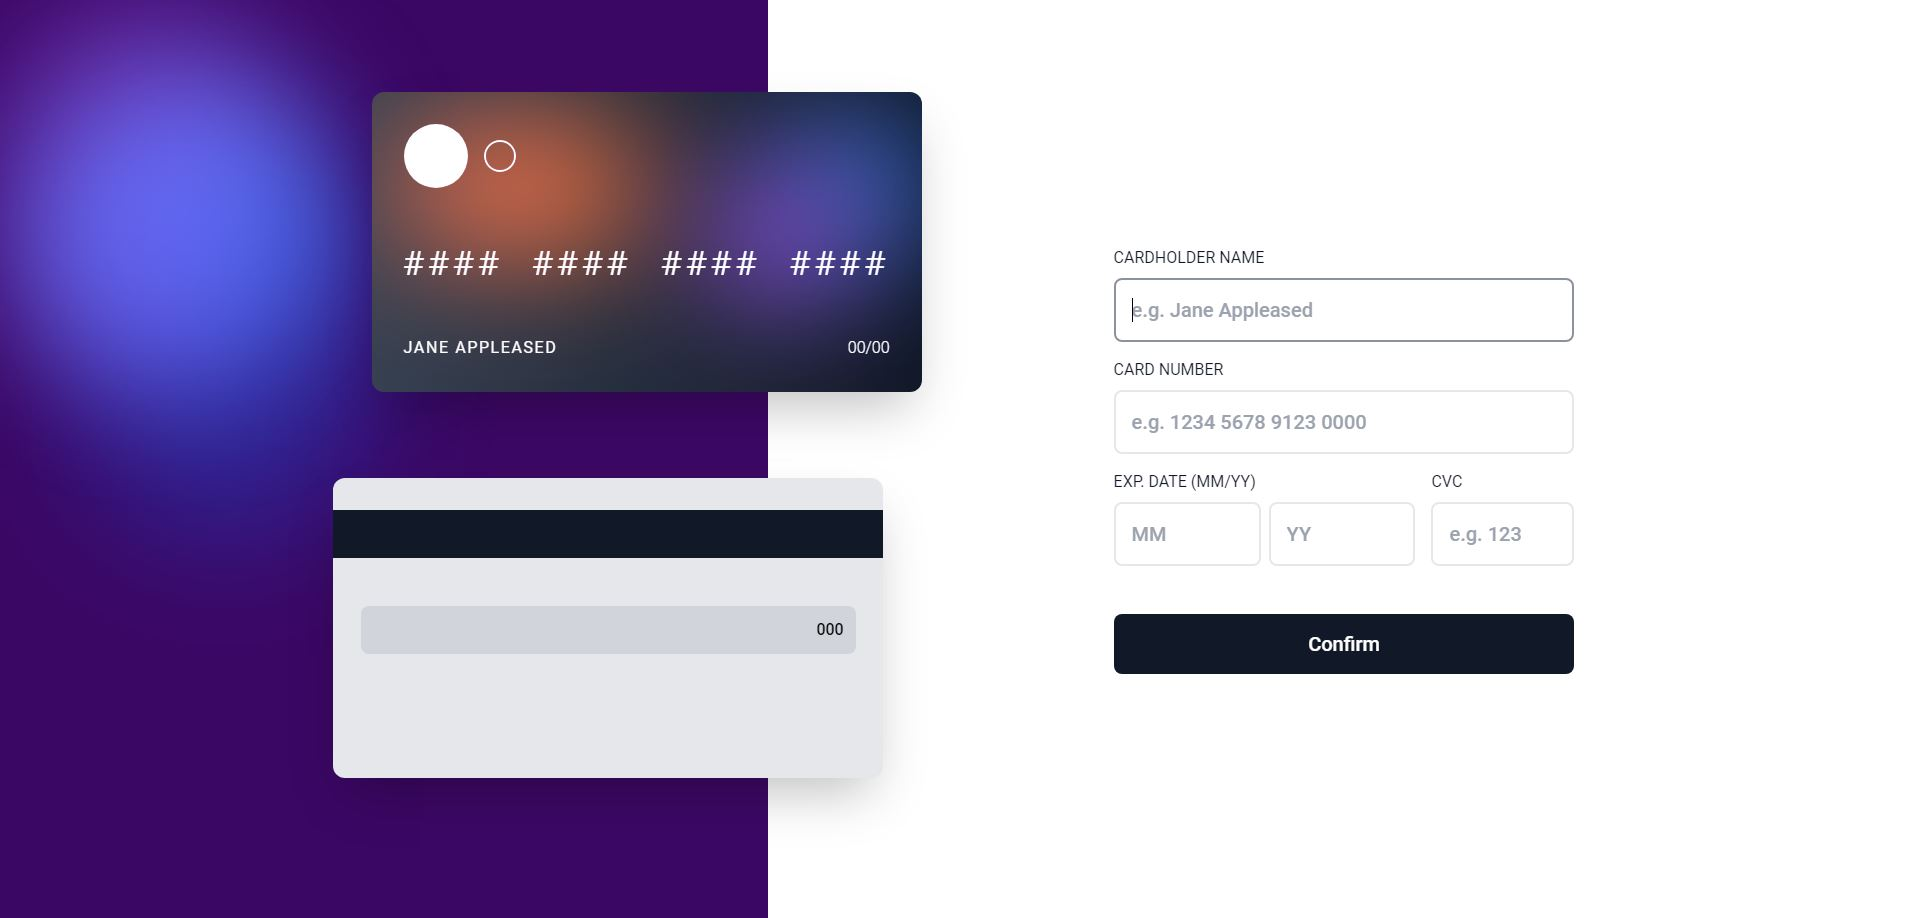
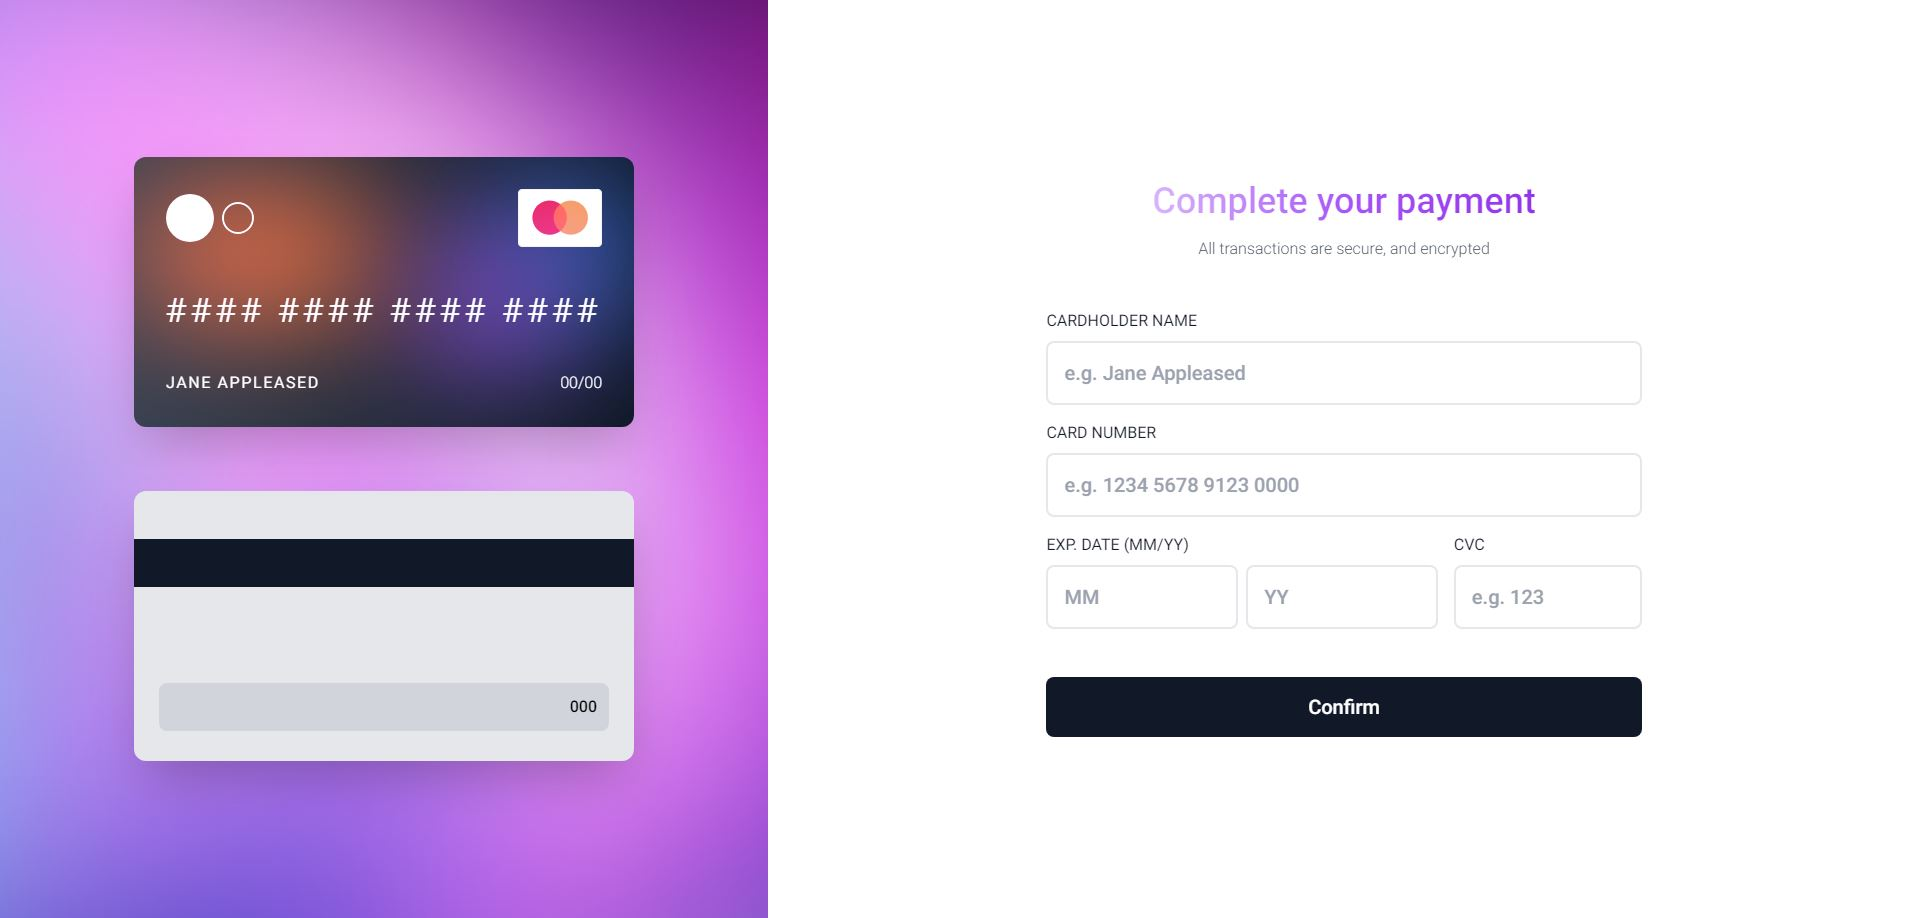
responsive

diff --git a/index.html b/index.html
@@ -9,65 +9,71 @@
     <title>Interactive credit card form</title>
 </head>
 <body>
-    <div class="container grid grid-cols-5 min-h-screen min-w-full mx-auto max-w-full relative">
-        <div class="h-full bg-gradient-to-b bg-purple-950 col-span-2 min-h-screen relative">
-            <!-- blurry circles start -->
-            <div class="absolute w-72 h-72 top-20 left-10 bg-blue-500 blur-3xl rounded-full"></div>
-            <div class="absolute w-72 h-96  top-40 left-20 bg-blue-700 opacity-40 blur-3xl rounded-full"></div>
-            <div class="absolute w-72 h-96  top-50 left-25 bg-purple-500 opacity-40 blur-3xl rounded-full"></div>
-            <!-- blurry circles end -->
+    
+    <div class="container grid 2xl:grid-cols-5 2xl:min-h-screen lg:min-h-screen mx-auto max-w-[1920px] relative lg:grid-cols-4 md:grid-cols-1">
+         
+        <div class="h-full bg-purple-200 col-span-2 2xl:min-h-screen lg:min-h-fit relative">
+            <div class="cards-container flex-col items-center justify-center 2xl:h-screen gap-8 p-12 2xl:flex bg-[url('assets/images/background.png')] bg-cover bg-no-repeat bg-center">
+                <div class="credit-card-front rounded-xl bg-gradient-to-r from-gray-700 to-gray-900 shadow-2xl p-8 flex flex-col justify-between max-w-[500px] 
+                2xl:w-[500px] 2xl:h-[270px] lg:w-[400px] lg:h-[250px] md:w-[400px] md:h-[250px] h-fit overflow-hidden relative gap-8 mx-auto mb-8">
 
-            <div class="credit-card-front xl:w-[550px] xl:h-[300px] lg:w-[400px] lg:h-[250px] rounded-xl bg-gradient-to-r from-gray-700 to-gray-900 absolute 2xl:-right-[20%] 2xl:top-[10%] md:-right-[20%] md:top-[10%] md:w-[350px] md:h-[200px] shadow-2xl p-8 flex flex-col justify-between overflow-hidden">
+                    <!-- Glowing shapes -->
+                    <div class="absolute right-0 w-32 h-32 bg-blue-500 rounded-full blur-3xl mix-blend-lighten"></div>
+                    <div class="absolute top-20 right-20 w-32 h-32 bg-purple-500 rounded-full blur-3xl mix-blend-lighten"></div>
+                    <div class="absolute top-25 right-1/2 w-64 h-32 bg-orange-500 rounded-full blur-3xl mix-blend-lighten"></div>
 
-                <!-- Glowing shapes -->
-                <div class="absolute right-0 w-32 h-32 bg-blue-500 rounded-full blur-3xl mix-blend-lighten"></div>
-                <div class="absolute top-20 right-20 w-32 h-32 bg-purple-500 rounded-full blur-3xl mix-blend-lighten"></div>
-                <div class="absolute top-25 right-1/2 w-64 h-32 bg-orange-500 rounded-full blur-3xl mix-blend-lighten"></div>
+                    <div class="flex items-between w-full">
+                        <div class="flex items-center w-full">
+                            <div class="w-12 h-12 rounded-full bg-white mr-2"></div>
+                            <div class="w-8 h-8 rounded-full bg-transparent border-2 border-white"></div>
+                        </div>
+                        <img src="assets/icons/mastercard.png" id="cc_logo" alt="cc_logo">
+                    </div>
 
-                <div class="flex items-center">
-                    <div class="w-16 h-16 rounded-full bg-white mr-4"></div>
-                    <div class="w-8 h-8 rounded-full bg-transparent border-2 border-white"></div>
+                    <h3 class="text-md text-white text-center 2xl:text-4xl lg:text-3xl md:text-xl flex justify-between w-full" id="card_number_text">
+                        <div class="number_group flex">
+                            <div class="number tracking-widest"></div>
+                            <div class="number tracking-widest"></div>
+                            <div class="number tracking-widest"></div>
+                            <div class="number tracking-widest"></div>
+                        </div>
+                        <div class="number_group flex">
+                            <div class="number tracking-widest"></div>
+                            <div class="number tracking-widest"></div>
+                            <div class="number tracking-widest"></div>
+                            <div class="number tracking-widest"></div>
+                        </div>
+                        <div class="number_group flex">
+                            <div class="number tracking-widest"></div>
+                            <div class="number tracking-widest"></div>
+                            <div class="number tracking-widest"></div>
+                            <div class="number tracking-widest"></div>
+                        </div>
+                        <div class="number_group flex">
+                            <div class="number tracking-widest"></div>
+                            <div class="number tracking-widest"></div>
+                            <div class="number tracking-widest"></div>
+                            <div class="number tracking-widest"></div>
+                        </div>
+                    </h3>
+                    <div class="flex space-between w-full">
+                        <h4 class="w-full text-left text-white roboto-regular tracking-widest" id="card_holder_name_text"></h4>
+                        <h5 class="w-full text-right text-white roboto-light"><span id="month_text"></span>/<span id="year_text"></span></h5>
+                    </div>
                 </div>
-                <h3 class="text-md text-white text-center 2xl:text-4xl lg:text-3xl md:text-xl flex justify-between w-full" id="card_number_text">
-                    <div class="number_group flex">
-                        <div class="number tracking-widest"></div>
-                        <div class="number tracking-widest"></div>
-                        <div class="number tracking-widest"></div>
-                        <div class="number tracking-widest"></div>
+                <div class="credit-card-back 2xl:w-[500px] max-w-[500px] 2xl:h-[270px] lg:w-[400px] lg:h-[250px] md:w-[400px] md:h-[250px] sm:w-full md:h-[200px] rounded-xl bg-gray-200 shadow-2xl flex flex-col justify-between overflow-hidden gap-12 py-4 mx-auto h-fit">
+                    <div class="bg-gray-900 w-full h-12 mt-8"></div>
+                    <div class="bg-gray-300 w-[90%] h-12 m-auto mt-12 rounded-lg relative">
+                        <span class="absolute right-3 top-3 roboto-medium" id="cvc_text"></span>
                     </div>
-                    <div class="number_group flex">
-                        <div class="number tracking-widest"></div>
-                        <div class="number tracking-widest"></div>
-                        <div class="number tracking-widest"></div>
-                        <div class="number tracking-widest"></div>
-                    </div>
-                    <div class="number_group flex">
-                        <div class="number tracking-widest"></div>
-                        <div class="number tracking-widest"></div>
-                        <div class="number tracking-widest"></div>
-                        <div class="number tracking-widest"></div>
-                    </div>
-                    <div class="number_group flex">
-                        <div class="number tracking-widest"></div>
-                        <div class="number tracking-widest"></div>
-                        <div class="number tracking-widest"></div>
-                        <div class="number tracking-widest"></div>
-                    </div>
-                </h3>
-                <div class="flex space-between w-full">
-                    <h4 class="w-full text-left text-white roboto-regular tracking-widest" id="card_holder_name_text"></h4>
-                    <h5 class="w-full text-right text-white roboto-light"><span id="month_text"></span>/<span id="year_text"></span></h5>
-                </div>
-            </div>
-            <div class="credit-card-back xl:w-[550px] xl:h-[300px] lg:w-[400px] lg:h-[250px]  rounded-xl bg-gray-200 absolute -right-[15%] top-[52%] shadow-2xl">
-                <div class="bg-gray-900 w-full h-12 mt-8"></div>
-                <div class="bg-gray-300 w-[90%] h-12 m-auto mt-12 rounded-lg relative">
-                    <span class="absolute right-3 top-3 roboto-medium" id="cvc_text"></span>
                 </div>
             </div>
         </div>
-        <div class="col-span-3">
-            <form method="POST" id="form" class="flex items-center justify-center flex-col h-screen w-[40%] m-auto">
+        <div class="2xl:col-span-3 lg:col-span-2 col-span-2 relative overflow-hidden">
+            
+            <form method="POST" id="form" class="flex items-center justify-center flex-col 2xl:h-screen 2xl:w-[60%] md:w-[85%] mx-auto p-12 ">
+                <h1 class="2xl:text-4xl xl:text-3xl text-2xl bg-gradient-to-r from-purple-300 via-purple-500 to-purple-600 bg-clip-text text-transparent mb-4 roboto-medium text-center">Complete your payment</h1>
+                <p class="text-center text-gray-600 roboto-light mb-12">All transactions are secure, and encrypted</p>
                 <div class="input-container flex flex-col w-full mb-4">
                     <label for="cardholder_name" class="text-gray-900 roboto-regular mb-2">CARDHOLDER NAME</label>
                     <input type="text" placeholder="e.g. Jane Appleased" id="cardholder_name" class="outline-none border-2 border-gray-200 p-4 rounded-lg text-xl roboto-medium focus:border-gray-500 duration-500">
@@ -96,7 +102,6 @@
             </form>
         </div>
     </div>
-
     <script src="scripts/main.js"></script>
 </body>
 </html>

diff --git a/scripts/main.js b/scripts/main.js
@@ -7,6 +7,7 @@
 
 // elements
 const form = document.getElementById("form");
+const cc_logo = document.getElementById("cc_logo");
 
 // inputs
 const card_holder_name = document.getElementById("cardholder_name");
@@ -30,13 +31,9 @@ const DEFAULT_MM = "00";
 const DEFAULT_YY = "00";
 
 // main functions
-// 1. form submit
-const formSubmit = () => {
-    alert("hey");
-}
 
+// handle Name change
 let previousValue = ""; // Track previous input
-
 const changeName = () => {
     const currentValue = card_holder_name.value; // Get current input value
 
@@ -94,17 +91,13 @@ const renderDefaultUI = () => {
 
 // invoke error shake animation
 const invokeError = (input) => {
-    input.style.animation = `shake .5s ease forwards`;
-    input.style.borderColor = "#f54242";
-    input.style.color = "#f54242";
-}
+    input.classList.add("error"); 
+};
 
-// reset field styles
 const resetFieldStyles = (input) => {
-    input.style.animation = ``;
-    input.style.borderColor = "";
-    input.style.color = "";
-}
+    input.classList.remove("error");
+};
+
 
 
 // event handlers
@@ -247,6 +240,20 @@ card_number.addEventListener('keyup', event => {
         } else {
             numbers[i].textContent = '#'; // Reset to '#' if no input
         }
+    }
+
+    // Display corresponding card logo
+    const firstDigit = card_number.value[0];
+    cc_logo.style.visibility = 'visible';
+    if (firstDigit == "5" || firstDigit == "2") {
+        cc_logo.setAttribute("src", "assets/icons/mastercard.png");
+    } else if (firstDigit == "4") {
+        cc_logo.setAttribute("src", "assets/icons/visa.png");
+    } else if (firstDigit == "3") {
+        cc_logo.setAttribute("src", "assets/icons/amex.png");
+    } else {
+        cc_logo.setAttribute("src", ""); // Clear logo if input is invalid 
+        cc_logo.style.visibility = 'hidden';
     }
 
     // Handle backspace functionality

diff --git a/assets/style.css b/assets/style.css
@@ -1,9 +1,3 @@
-.roboto-thin {
-  font-family: "Roboto", sans-serif;
-  font-weight: 100;
-  font-style: normal;
-}
-
 .roboto-light {
   font-family: "Roboto", sans-serif;
   font-weight: 300;
@@ -26,48 +20,6 @@
   font-family: "Roboto", sans-serif;
   font-weight: 700;
   font-style: normal;
-}
-
-.roboto-black {
-  font-family: "Roboto", sans-serif;
-  font-weight: 900;
-  font-style: normal;
-}
-
-.roboto-thin-italic {
-  font-family: "Roboto", sans-serif;
-  font-weight: 100;
-  font-style: italic;
-}
-
-.roboto-light-italic {
-  font-family: "Roboto", sans-serif;
-  font-weight: 300;
-  font-style: italic;
-}
-
-.roboto-regular-italic {
-  font-family: "Roboto", sans-serif;
-  font-weight: 400;
-  font-style: italic;
-}
-
-.roboto-medium-italic {
-  font-family: "Roboto", sans-serif;
-  font-weight: 500;
-  font-style: italic;
-}
-
-.roboto-bold-italic {
-  font-family: "Roboto", sans-serif;
-  font-weight: 700;
-  font-style: italic;
-}
-
-.roboto-black-italic {
-  font-family: "Roboto", sans-serif;
-  font-weight: 900;
-  font-style: italic;
 }
 
 #card_holder_name_text span{
@@ -116,3 +68,8 @@
   animation: blurEffect 0.5s ease forwards; /* Trigger the blur effect */
 }
 
+.error{
+  border-color: #f75252 !important;
+  color: #f75252;
+  animation: shake .5s ease forwards;
+}
